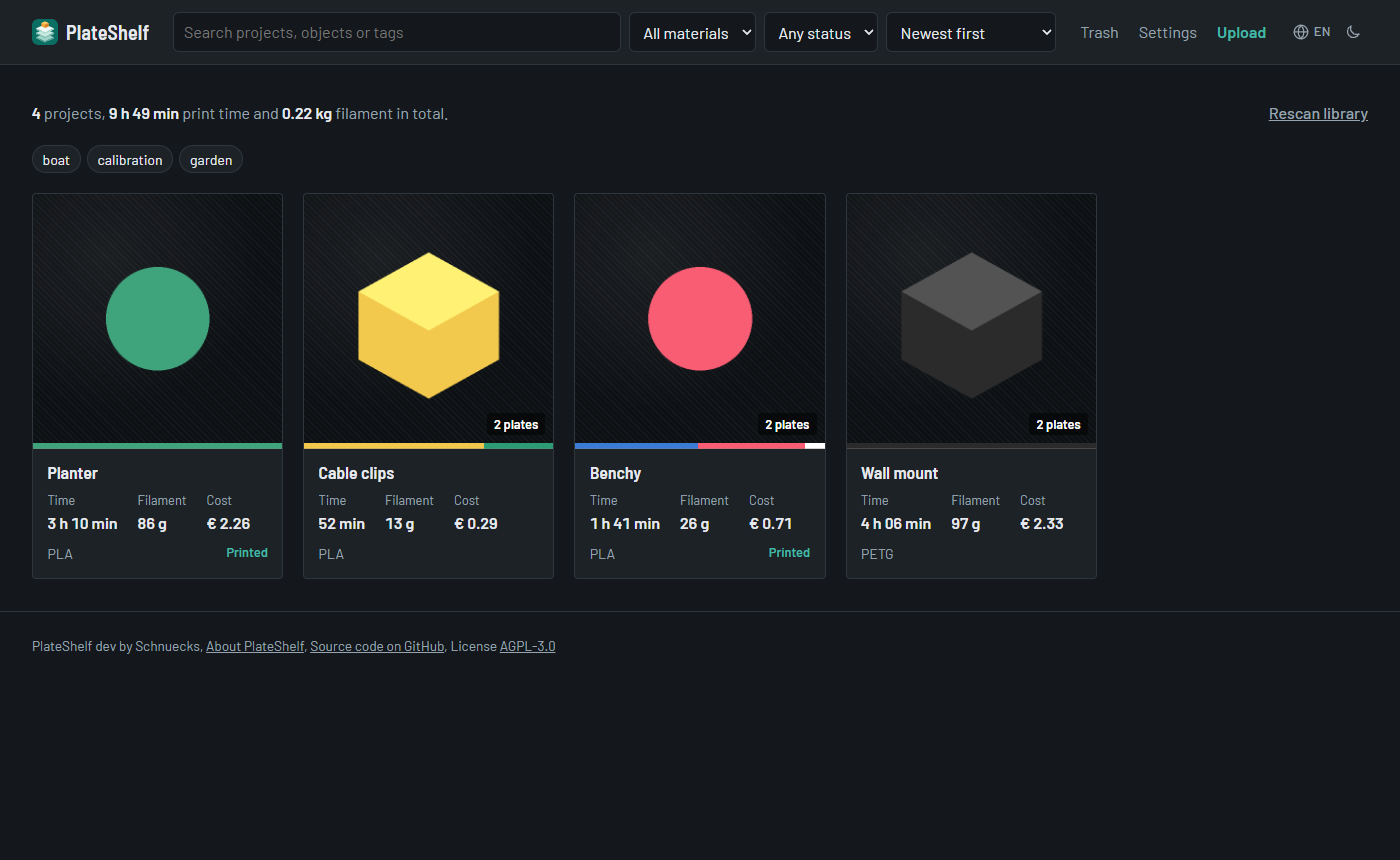
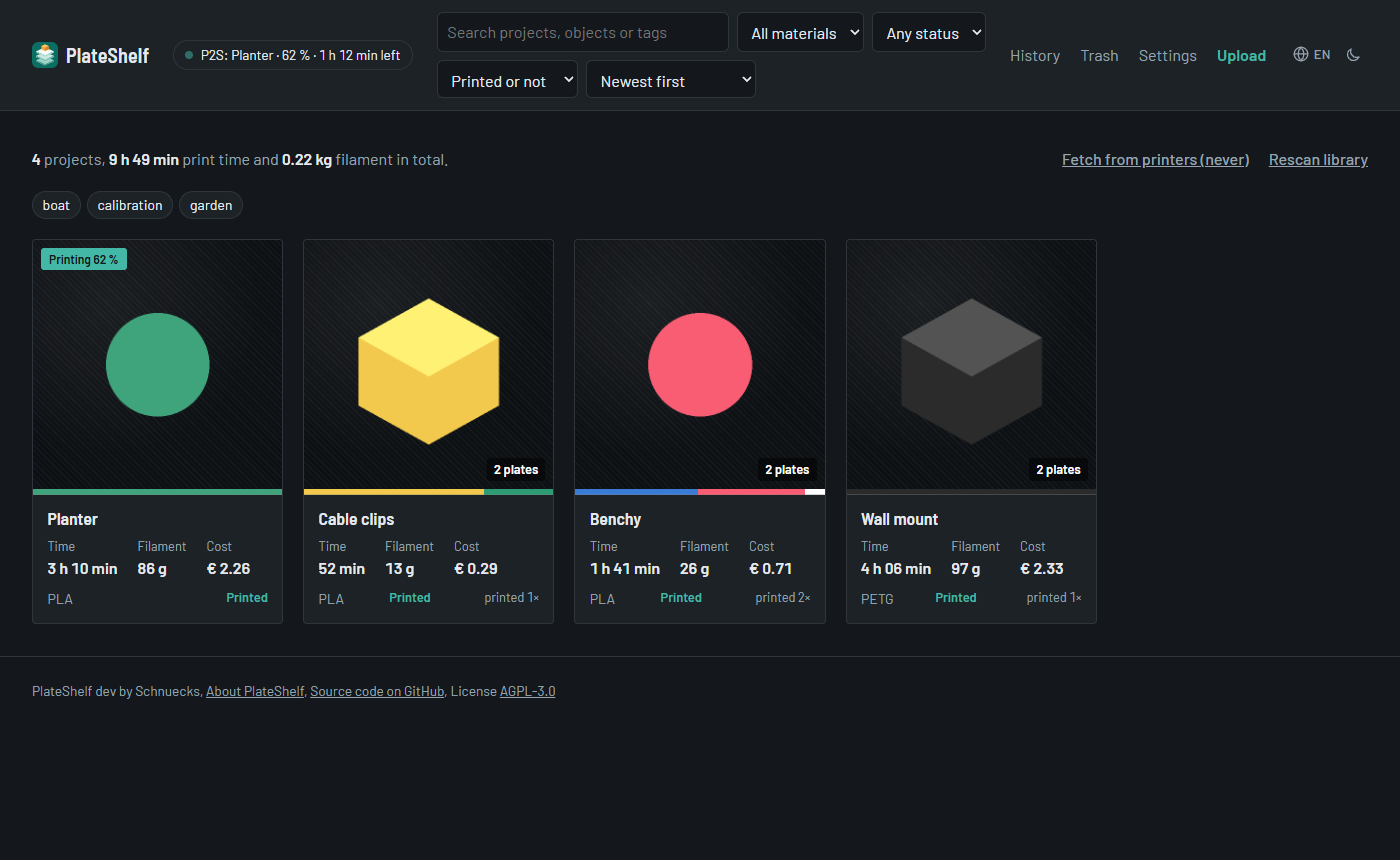
Issue-Vorlagen, neue Screenshots, Doku für 0.7.7
- Fehlerbericht- und Ideenformular auf GitHub, Diagnose wird abgefragt
- Screenshots jetzt auch von Druckverlauf und Einstellungen, mit
  nachgestellten Druckern und Drucken
- README (EN/DE): Live-Anzeige, Sortierung, Probleme melden, neue Felder
  in /api/stats; CHANGELOG

diff --git a/app/static/style.css b/app/static/style.css
@@ -549,6 +549,7 @@ button.danger-quiet:hover { color: var(--ink); }
 .live-more { color: var(--muted); }
 @keyframes live-pulse { 50% { opacity: .35; } }
 @media (prefers-reduced-motion: reduce) { .live-dot { animation: none; } }
+@media (max-width: 1100px) { .live-print { max-width: 14rem; } }
 @media (max-width: 760px) { .live-print { max-width: 60vw; } }
 .bed-live { position: absolute; left: .5rem; top: .5rem; background: var(--accent); color: var(--accent-ink);
   font-size: .75rem; font-weight: 600; padding: .15rem .5rem; border-radius: 3px; }

diff --git a/tools/make_screenshots.py b/tools/make_screenshots.py
@@ -6,7 +6,8 @@
     python tools/make_screenshots.py
 
 Baut eine Beispielbibliothek mit englischen Namen, startet PlateShelf auf Englisch im
-dunklen Design und fotografiert Übersicht, Projektseite, 3D-Vorschau und „About“.
+dunklen Design und fotografiert Übersicht, Projektseite, 3D-Vorschau, Druckverlauf,
+Einstellungen und „About“. Drucker und Drucke sind nachgestellt, es wird nichts abgefragt.
 """
 from __future__ import annotations
 
@@ -103,12 +104,47 @@ def build_library(lib: Path) -> None:
             z.writestr(n, d)
 
 
+def add_printers_and_prints() -> None:
+    """Drei Drucker mit letztem Abruf und ein paar Drucke, einer davon läuft gerade."""
+    from app import print_history as ph, printer_import as pi, store
+    pi.init()
+    now = time.time()
+    printers = [
+        {"name": "P2S", "id": "01P00A000000001", "ip": "192.0.2.20", "code": "x", "kind": "bambu"},
+        {"name": "MK4S", "id": "prusalink:http://192.0.2.21", "ip": "192.0.2.21", "code": "x", "kind": "prusalink"},
+        {"name": "Voron 2.4", "id": "moonraker:http://192.0.2.22:7125", "ip": "192.0.2.22", "code": "",
+         "kind": "moonraker"},
+    ]
+    with store.connect() as con:
+        for p in printers:
+            con.execute("INSERT INTO printers (name, serial, ip, code, kind) VALUES (?, ?, ?, ?, ?)",
+                        (p["name"], p["id"], p["ip"], p["code"], p["kind"]))
+        for p, remote in ((printers[0], "Benchy_plate_1.gcode.3mf"), (printers[0], "Planter.gcode.3mf"),
+                          (printers[1], "Cable_clips.gcode.3mf"), (printers[2], "Wall mount/Mount_left.gcode.3mf")):
+            con.execute("INSERT INTO printer_files (printer, remote_name, size, remote_date, local_path, printer_name, "
+                        "imported) VALUES (?, ?, 1, 'Sep 20 10:00', ?, ?, ?)", (p["id"], remote, remote, p["name"], now))
+    for p, files in ((printers[0], 14), (printers[1], 6), (printers[2], 9)):
+        pi.state["printers"][p["id"]] = {"name": p["name"], "kind": p["kind"], "ok": True, "files": files,
+                                         "error": None, "error_msg": None, "error_args": {}, "at": now - 240}
+    day = 86400
+    for p, key, remote, status, start, minutes in (
+            (printers[0], "a", "Benchy_plate_1.gcode.3mf", "completed", now - 5 * day, 49),
+            (printers[1], "b", "Cable_clips.gcode.3mf", "completed", now - 4 * day, 26),
+            (printers[2], "c", "Wall mount/Mount_left.gcode.3mf", "cancelled", now - 3 * day, 18),
+            (printers[2], "d", "Wall mount/Mount_left.gcode.3mf", "completed", now - 2 * day, 123),
+            (printers[0], "e", "Benchy_plate_1.gcode.3mf", "completed", now - day, 50)):
+        ph.record(p, key, status, remote_name=remote, started=start, ended=start + minutes * 60)
+    ph.record(printers[0], "live", "running", remote_name="Planter.gcode.3mf", started=now - 7000,
+              progress=62, remaining_s=72 * 60)
+
+
 def main() -> None:
     from playwright.sync_api import sync_playwright
     import uvicorn
 
     tmp = Path(tempfile.mkdtemp(prefix="plateshelf-shots-"))
-    os.environ.update(DEFAULT_LANGUAGE="en", DEFAULT_THEME="dark", SCAN_INTERVAL="3600", PREVIEW_PREBUILD="false")
+    os.environ.update(DEFAULT_LANGUAGE="en", DEFAULT_THEME="dark", SCAN_INTERVAL="3600", PREVIEW_PREBUILD="false",
+                      BACKGROUND_TASKS="false", PRINT_HISTORY="true")
     from app import main as app_main, store
     store.LIBRARY_DIR, store.DATA_DIR = tmp / "library", tmp / "data"
     store.DB_PATH, store.THUMB_DIR, store.PREBUILD = tmp / "data" / "plateshelf.sqlite", tmp / "data" / "thumbs", False
@@ -121,6 +157,7 @@ def main() -> None:
         con.execute("UPDATE projects SET status = 'gedruckt', tags = 'boat, calibration', notes = ? WHERE id = ?",
                     ("Printed with 0.2 mm layers. Hull came out perfect.", benchy))
         con.execute("UPDATE projects SET status = 'gedruckt', tags = 'garden' WHERE id = ?", (pid,))
+    add_printers_and_prints()
 
     with socket.socket() as s:
         s.bind(("127.0.0.1", 0))
@@ -153,6 +190,14 @@ def main() -> None:
         page.wait_for_selector("#viewer-loading", state="hidden", timeout=120_000)
         page.wait_for_timeout(1500)  # Tiefenschattierung im Stillstand abwarten
         page.screenshot(path=OUT / "preview.png")
+
+        page.goto(url + "/history")
+        page.wait_for_load_state("networkidle")
+        page.screenshot(path=OUT / "history.png")
+
+        page.goto(url + "/settings")
+        page.wait_for_load_state("networkidle")
+        page.screenshot(path=OUT / "settings.png")
 
         page.goto(url + "/about")
         page.wait_for_load_state("networkidle")

diff --git a/tools/i18n_extract.py b/tools/i18n_extract.py
@@ -6,7 +6,7 @@
     python tools/i18n_extract.py --list   # alle Texte ausgeben
 
 Quellen: _("…") und ngettext("…", "…", n) in Vorlagen und Python, UserError("…")
-und fail("…") in Python sowie die Listen und Beschriftungen in app/main.py.
+und fail("…") in Python sowie die Listen und Beschriftungen in app/web.py und app/projects.py.
 """
 from __future__ import annotations
 

diff --git a/README.de.md b/README.de.md
@@ -54,6 +54,10 @@ Kosten, die wichtigsten Druckeinstellungen und eine 3D-Vorschau der Druckbahnen.
 |---|---|
 | ![Projektseite](docs/screenshots/project.png) | ![3D-Vorschau, eingefärbt nach Linientyp](docs/screenshots/preview.png) |
 
+| Druckverlauf | Einstellungen |
+|---|---|
+| ![Druckverlauf mit laufendem Druck](docs/screenshots/history.png) | ![Einstellungen mit Druckern dreier Typen](docs/screenshots/settings.png) |
+
 Die Screenshots zeigen die englische Oberfläche; die Sprache lässt sich oben rechts umstellen.
 
 ## Installation
@@ -229,7 +233,14 @@ eingetragen, hat die `.env` Vorrang.
 Für die Drucker aus dem Direktimport schreibt PlateShelf jeden Druck mit: Start, Ende,
 Dauer, Drucker und Ausgang (fertig, abgebrochen, fehlgeschlagen). „Verlauf“ in der
 Titelleiste zeigt alle Drucke, die Projektseite die Drucke ihrer Dateien, die Übersicht,
-wie oft ein Projekt gedruckt wurde.
+wie oft ein Projekt gedruckt wurde. Die Übersicht lässt sich nach „Zuletzt gedruckt“ oder
+„Am häufigsten gedruckt“ sortieren und nach „Schon gedruckt“ oder „Noch nie gedruckt“
+filtern.
+
+Ein laufender Druck erscheint in der Titelleiste mit Drucker, Projekt, Fortschritt und
+Restzeit sowie auf der Karte des Projekts in der Übersicht; die Titelleiste frischt sich
+alle 30 Sekunden auf. Bambu und Prusa melden die Restzeit selbst, bei Klipper wird sie aus
+dem bisherigen Fortschritt geschätzt.
 
 - **Bambu Lab:** PlateShelf hält eine MQTT-Verbindung zum Drucker (Port 8883, derselbe
   Zugangscode) und erfährt so sofort von jedem Druck.
@@ -450,6 +461,7 @@ Unter `/api/stats` liefert PlateShelf seine Kennzahlen als JSON:
 | `printers_ok`, `printers_total`, `last_printer_sync` | Erreichbare und eingerichtete Drucker, letzter Abruf |
 | `prints_30d`, `prints_failed_30d` | Fertige und abgebrochene oder fehlgeschlagene Drucke der letzten 30 Tage |
 | `printing_now`, `last_print_end` | Gerade laufende Drucke, Ende des letzten Drucks |
+| `printing_name`, `printing_printer`, `printing_progress`, `printing_remaining_min` | Der laufende Druck: Projekt, Drucker, Fortschritt in %, Restminuten |
 | `trash_items`, `version` | Einträge im Papierkorb, Version von PlateShelf |
 
 Für [Homepage](https://gethomepage.dev) genügt das eingebaute Widget `customapi` in der
@@ -538,6 +550,15 @@ eine Übersetzung fehlt oder ihre Platzhalter (`{n}`, `{name}` …) nicht zum de
 Text passen. Eine neue Sprache braucht einen Eintrag in `LANGUAGES`, `NUMBER_FORMAT`,
 `MONTHS` und `DAY_MONTH` in `app/i18n.py` sowie eine eigene JSON-Datei.
 
+### Probleme melden
+
+Fehler und Ideen sind als Issue auf GitHub willkommen; die Formulare fragen die Angaben ab,
+die meist gebraucht werden. Bei Fehlern öffnest du in PlateShelf „Einstellungen“ →
+„Diagnose“, klickst auf „Kopieren“ und fügst den Text ins Issue ein. Er enthält Version,
+Plattform, Zahlen zur Bibliothek, die Druckertypen mit ihrem letzten Ergebnis, welche
+Einstellungen gesetzt sind und die letzten Warnungen, aber keine Zugangsdaten,
+IP-Adressen, Hostnamen oder Druckernamen.
+
 ### Tests, Builds und Releases
 
 - Jeder Pull Request und jeder Push auf `main` durchläuft die Python-Tests und den
@@ -573,7 +594,7 @@ Gibst du eine veränderte Fassung weiter oder bietest sie anderen über ein Netz
 Nutzung an, musst du ihnen den Quellcode deiner Fassung unter derselben Lizenz
 zugänglich machen. Der Link „Quellcode auf GitHub“ im Footer erfüllt das für diese
 Fassung; bei einer eigenen Fassung passe ihn auf deinen Quellcode an (`APP_REPO` in
-`app/main.py`).
+`app/web.py`).
 
 Das Programm wird ohne jede Gewährleistung bereitgestellt. Einzelheiten stehen in der
 [Lizenz](LICENSE).

diff --git a/README.md b/README.md
@@ -52,6 +52,10 @@ print settings and a 3D preview of the actual toolpaths.
 |---|---|
 | ![Project page](docs/screenshots/project.png) | ![3D preview coloured by line type](docs/screenshots/preview.png) |
 
+| Print history | Settings |
+|---|---|
+| ![Print history with a running print](docs/screenshots/history.png) | ![Settings with printers of three types](docs/screenshots/settings.png) |
+
 ## Installation
 
 ### Requirements
@@ -215,7 +219,13 @@ read-only in the settings. If a printer is set in both places, the `.env` wins.
 For printers set up for the direct import, PlateShelf records every print: start, end,
 duration, printer and outcome (finished, cancelled, failed). “History” in the top bar
 lists all prints; the project page shows the prints of its files, and the overview shows
-how often a project was printed.
+how often a project was printed. The overview can be sorted by “Recently printed” or
+“Most printed” and filtered by “Printed before” or “Never printed”.
+
+A running print appears in the top bar with printer, project, progress and remaining
+time, and on the project's card in the overview; the top bar refreshes every 30 seconds.
+Bambu and Prusa report the remaining time themselves, for Klipper it is estimated from the
+progress so far.
 
 - **Bambu Lab:** PlateShelf keeps an MQTT connection to the printer (port 8883, same
   access code) and learns about each print right away.
@@ -428,6 +438,7 @@ At `/api/stats`, PlateShelf provides its key figures as JSON:
 | `printers_ok`, `printers_total`, `last_printer_sync` | Reachable and configured printers, last query |
 | `prints_30d`, `prints_failed_30d` | Finished and cancelled or failed prints in the last 30 days |
 | `printing_now`, `last_print_end` | Prints running right now, end of the last print |
+| `printing_name`, `printing_printer`, `printing_progress`, `printing_remaining_min` | The running print: project, printer, progress in %, remaining minutes |
 | `trash_items`, `version` | Items in the trash, PlateShelf version |
 
 For [Homepage](https://gethomepage.dev), the built-in `customapi` widget in your
@@ -515,6 +526,14 @@ translation is missing or its placeholders (`{n}`, `{name}` …) don’t match t
 text. A new language needs an entry in `LANGUAGES`, `NUMBER_FORMAT`, `MONTHS` and
 `DAY_MONTH` in `app/i18n.py` plus its own JSON file.
 
+### Reporting problems
+
+Bug reports and ideas are welcome as GitHub issues; the forms ask for the details that
+are usually needed. For bugs, open “Settings” → “Diagnostics” in PlateShelf, click “Copy”
+and paste the text into the issue. It lists version, platform, library figures, printer
+types with their last result, which settings are set and the latest warnings, without
+credentials, IP addresses, host names or printer names.
+
 ### Tests, builds and releases
 
 - Every pull request and every push to `main` runs the Python tests and the browser
@@ -549,7 +568,7 @@ may use, modify and share it.
 If you distribute a modified version or offer it to others over a network, you must make
 the source code of your version available to them under the same license. The “Source
 code on GitHub” link in the footer does that for this version; for your own version,
-point it to your source code (`APP_REPO` in `app/main.py`).
+point it to your source code (`APP_REPO` in `app/web.py`).
 
 The program is provided without any warranty. See the [license](LICENSE) for details.
 

diff --git a/CHANGELOG.md b/CHANGELOG.md
@@ -2,6 +2,24 @@
 
 Entries up to version 0.6.0 (when the project was still called Druckarchiv) are in German.
 
+## Unreleased
+
+- **Running prints live:** the top bar shows printer, project, progress and remaining time
+  of a running print (refreshed every 30 seconds), the project card shows “Printing 45 %”.
+  Remaining time comes from Bambu and PrusaLink; for Klipper it is estimated from the
+  progress. `/api/stats` has `printing_name`, `printing_printer`, `printing_progress` and
+  `printing_remaining_min` for dashboards.
+- **Overview by print history:** sort by “Recently printed” or “Most printed”, filter by
+  “Printed before” or “Never printed”.
+- **Diagnostics** under “Settings”: a text to copy into a GitHub issue with version,
+  platform, library figures, printer types and their last result, which settings are set
+  and the latest warnings, without credentials, IP addresses or printer names.
+- **Issue forms on GitHub** for bug reports and feature requests.
+- README screenshots now include the print history and the settings page.
+- Internal: `app/main.py` is split into `web.py`, `projects.py` and `routes_*.py`. The tests
+  no longer start background threads; lingering threads from earlier tests occasionally
+  accessed the database of a later test and made the suite fail at random.
+
 ## 0.7.6
 
 - **New settings page:** the sections (printers, electricity costs, print history) are
